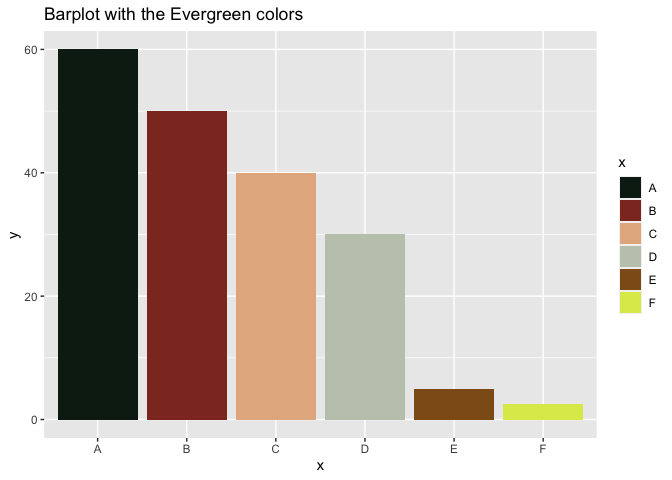
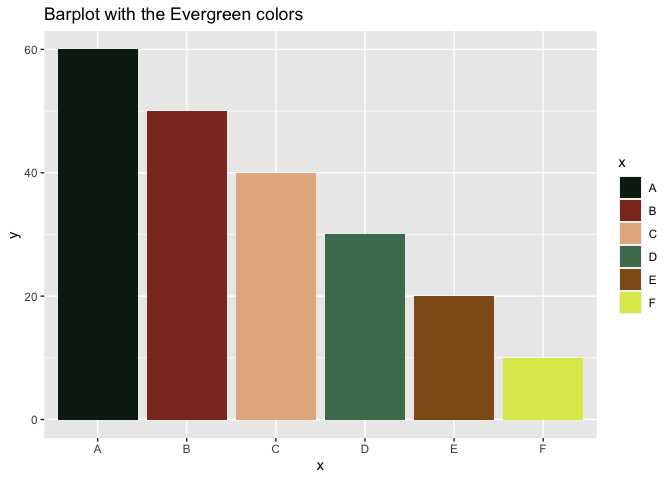
Adjusted the colors

Changed region(s): [[0.4688, 0.4688, 0.875, 0.875], [0.9062, 0.5, 0.9688, 0.5625]]

diff --git a/README.md b/README.md
@@ -33,7 +33,7 @@ library(evergreen)
 library(ggplot2)
 
 x = c("A", "B", "C", "D", "E", "F")
-y = c(60, 50, 40, 30, 5, 2.5)
+y = c(60, 50, 40, 30, 20, 10)
 
 ggplot() +
   geom_bar(aes(x = x, y = y, fill = x), stat = "identity") +
